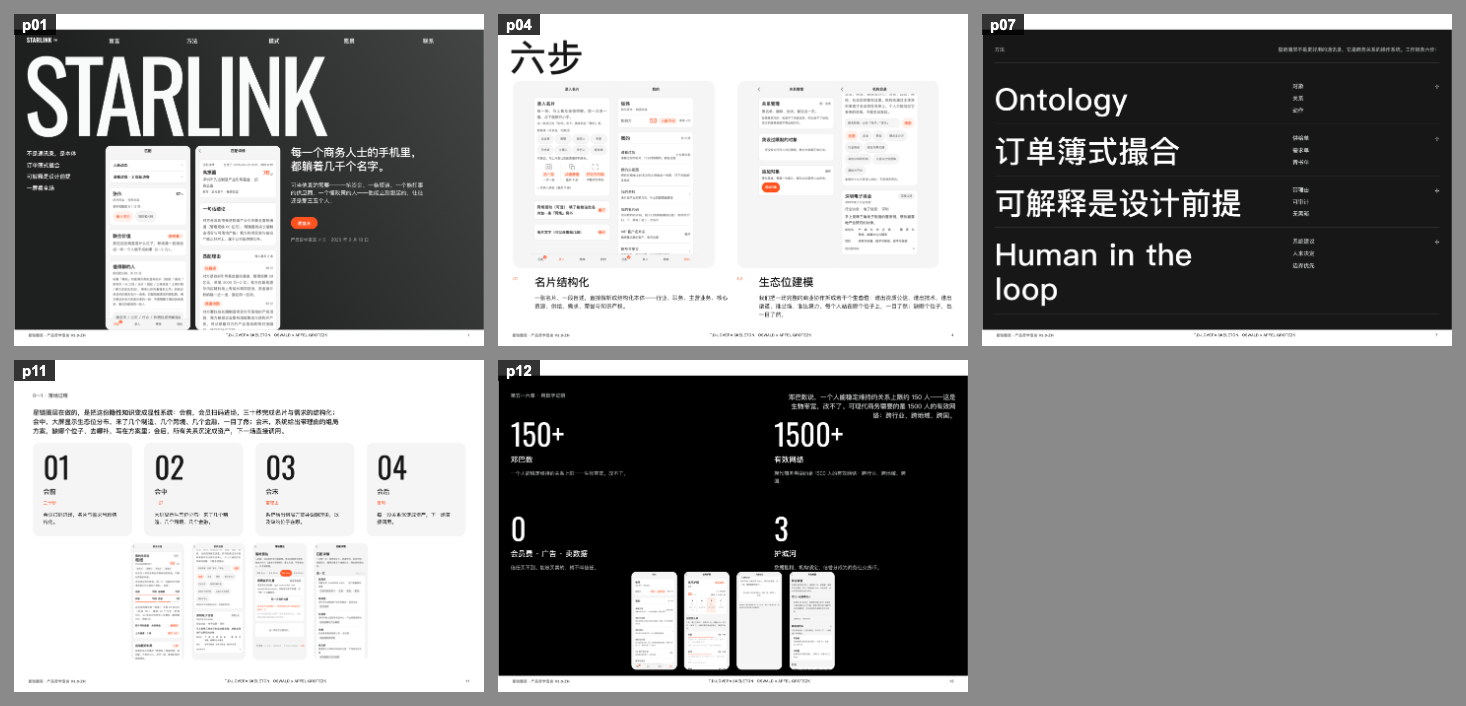
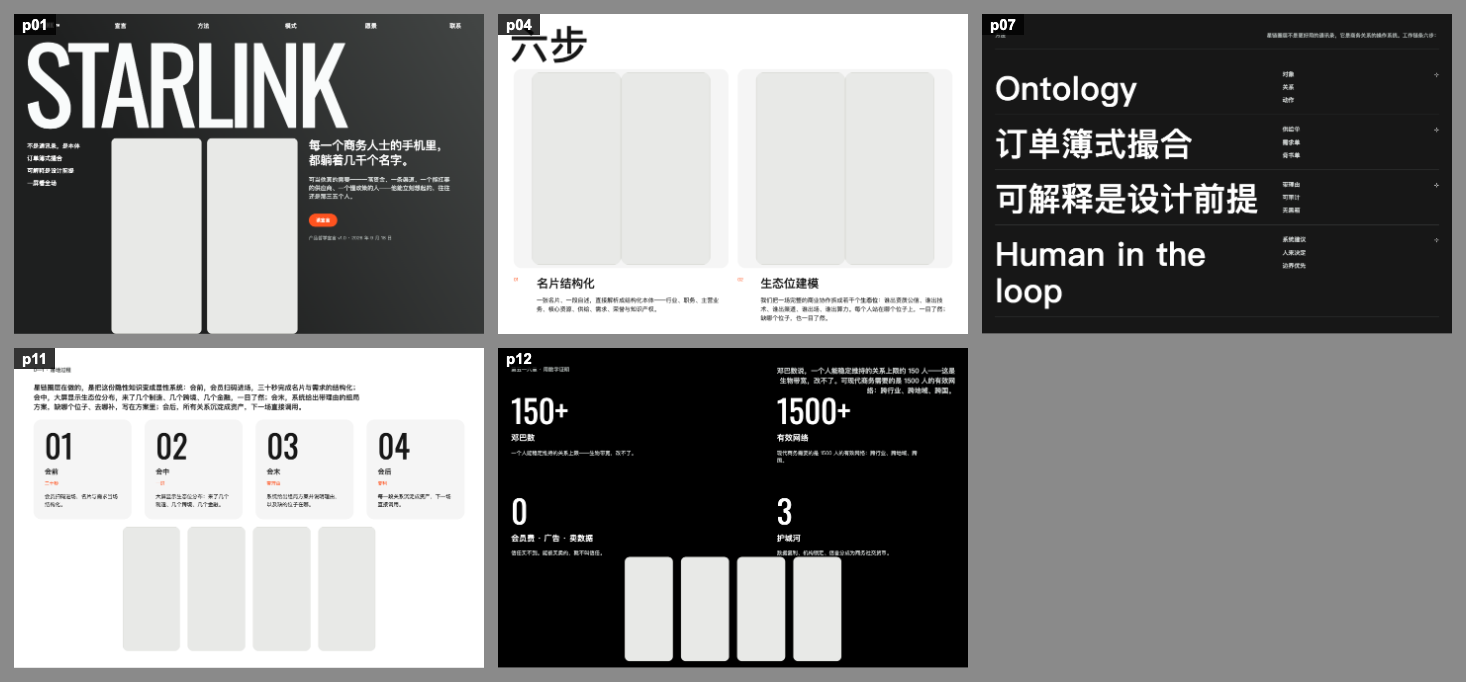
Add files via upload

diff --git a/examples/README.md b/examples/README.md
@@ -13,9 +13,10 @@ each time.
 Each sheet below is a **deliberately scattered sample: five non-consecutive pages** of
 a fourteen-page document, chosen to show the design language rather than the product.
 Pages that carry the operator-side (B-end) dashboards and internal product flows are
-**not published** — those are the part of the work that has to stay private. The pages
-you do see are cover, method, process and concept pages, with the page numbers printed
-on the corner of each tile so the gaps are honest.
+**not published**, and inside the pages that *are* published, every **interface
+screenshot is replaced by a flat block** — those screens carry the author's product UI
+and its sample user data. The page numbers are printed on the corner of each tile, so
+the gaps are honest.
 
 So: judge the **typography, colour proportions, grid and image treatment** here — they
 repeat page for page. The sample is a sample on purpose.
@@ -68,9 +69,9 @@ method, process, proof in numbers).
 ## What the examples deliberately do **not** contain
 
 No source content is redistributed: no source copy, no source photography, no logos,
-no mascots. What you see is the style layer rebuilt over the author's own text and her
-own product screenshots — which is exactly what the skill is for.
+no mascots. What you see is the style layer rebuilt over the author's own text — which
+is exactly what the skill is for.
 
-Nor is the whole product on display: five scattered pages per document, and none of the
-operator-side dashboard pages. The design language is the deliverable here; the product
-is not.
+Nor is the whole product on display: five scattered pages per document, none of the
+operator-side dashboard pages, and no interface screenshots at all (those are flat
+blocks). The design language is the deliverable here; the product is not.
